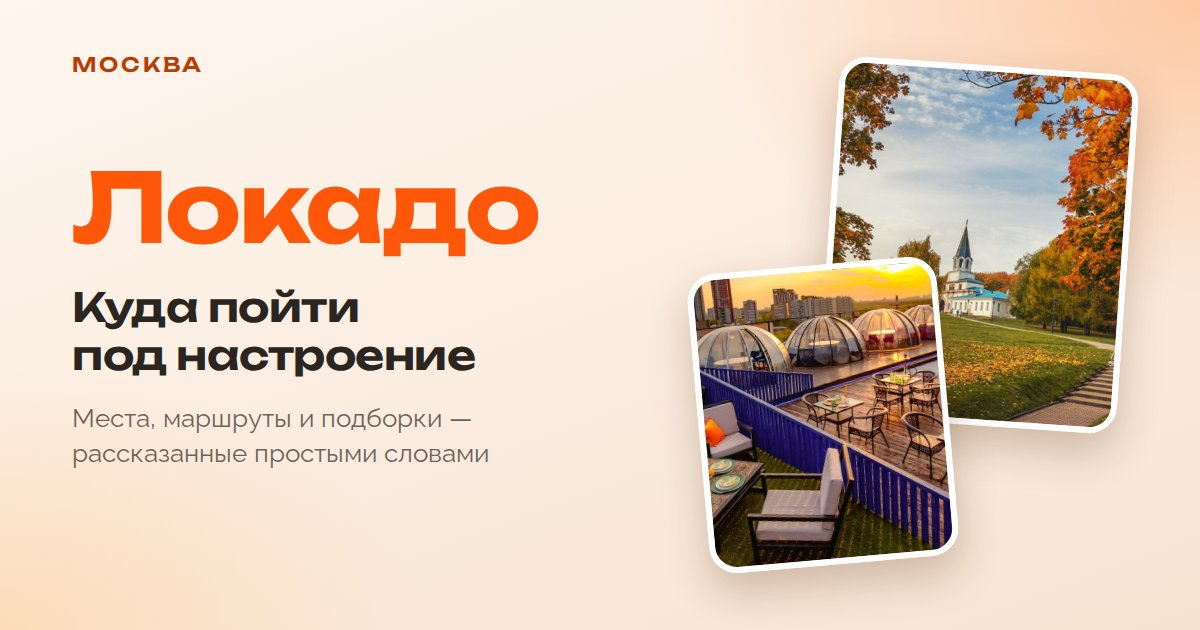
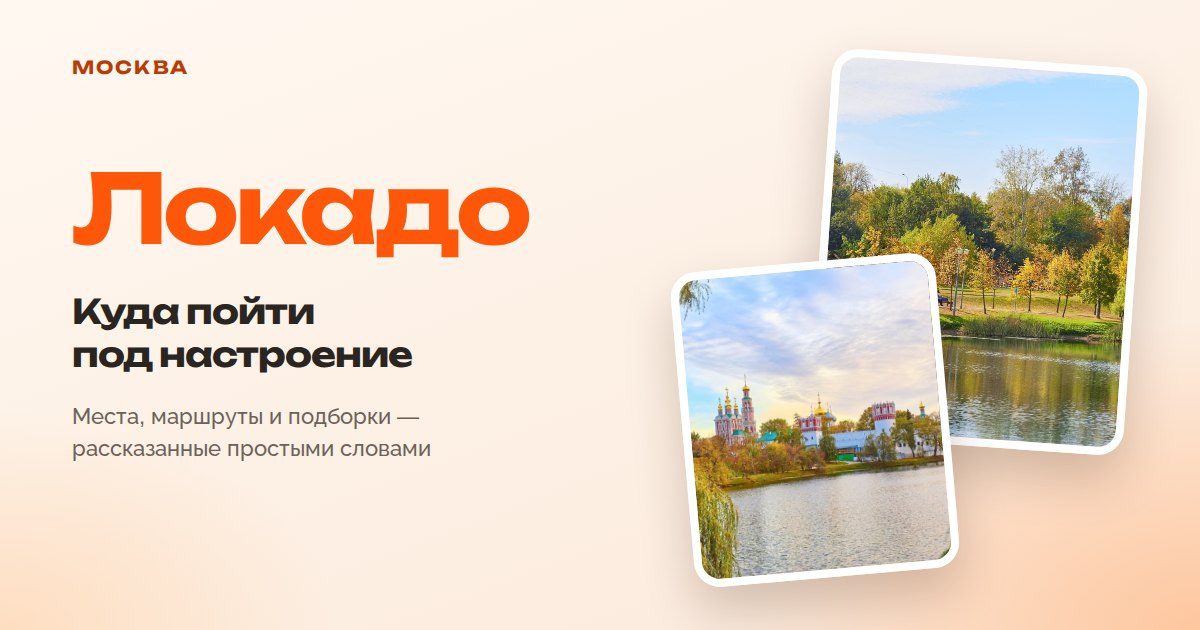
Картинка превью ссылок из наших фото
- assets/og-image.jpg пересобрана: Воронцовский парк и Новодевичий
  пруд вместо старых фото настроений, которые нельзя использовать
- tools/og-image.html + og-image.mjs — шаблон и сборка картинки, чтобы
  менять её без графического редактора
- В адресе картинки ?v=2: Telegram и другие мессенджеры кэшируют превью
  по адресу и иначе показывали бы старую

Claude-Session: https://claude.ai/code/session_01C5CphNpDVRWo972NeZpS75

diff --git a/tools/og-image.html b/tools/og-image.html
@@ -1,0 +1,42 @@
+<!doctype html>
+<!-- tools/og-image.html — шаблон картинки для превью ссылок (assets/og-image.jpg).
+     Фото — только наши, с лицензией (assets/images/places). Пересобрать:
+     node tools/og-image.mjs -->
+<html lang="ru"><head><meta charset="utf-8">
+<style>
+  @font-face { font-family: Unbounded; src: url(../assets/fonts/unbounded-cyrillic-700-normal.woff2) format('woff2'); font-weight: 700; }
+  @font-face { font-family: Raleway; src: url(../assets/fonts/raleway-cyrillic-500-normal.woff2) format('woff2'); font-weight: 500; }
+  html, body { margin: 0; }
+  .og {
+    position: relative; width: 1200px; height: 630px; overflow: hidden;
+    background:
+      radial-gradient(ellipse 55% 70% at 100% 100%, rgba(255, 170, 110, 0.55), transparent 70%),
+      radial-gradient(ellipse 40% 50% at 0% 100%, rgba(255, 200, 150, 0.45), transparent 70%),
+      linear-gradient(160deg, #FFF8F1 0%, #FBE9DA 100%);
+    font-family: Raleway, sans-serif; color: #2A2521;
+  }
+  .text { position: absolute; left: 72px; top: 58px; width: 560px; }
+  .kicker { font: 700 18px/1 Unbounded; letter-spacing: .12em; color: #B93C05; }
+  .logo { margin-top: 84px; font: 700 96px/1 Unbounded; letter-spacing: -.04em; color: #FF570A; }
+  .title { margin-top: 34px; font: 700 34px/1.25 Unbounded; letter-spacing: -.03em; }
+  .lead { margin-top: 26px; font-size: 22px; line-height: 1.45; color: #6B6259; }
+  .photo {
+    position: absolute; border: 8px solid #fff; border-radius: 26px; overflow: hidden;
+    box-shadow: 0 24px 50px rgba(60, 25, 5, 0.22);
+  }
+  .photo img { display: block; width: 100%; height: 100%; object-fit: cover; }
+  .photo--back { width: 300px; height: 372px; right: 64px; top: 58px; transform: rotate(4deg); }
+  .photo--front { width: 250px; height: 300px; right: 252px; top: 262px; transform: rotate(-5deg); }
+</style></head>
+<body>
+  <div class="og">
+    <div class="text">
+      <div class="kicker">МОСКВА</div>
+      <div class="logo">Локадо</div>
+      <div class="title">Куда пойти<br>под настроение</div>
+      <div class="lead">Места, маршруты и подборки —<br>рассказанные простыми словами</div>
+    </div>
+    <div class="photo photo--back"><img src="../assets/images/places/vorontsovsky-park.jpg" alt=""></div>
+    <div class="photo photo--front"><img src="../assets/images/places/novodevichy-prud.jpg" alt=""></div>
+  </div>
+</body></html>

diff --git a/index.html b/index.html
@@ -17,12 +17,12 @@
   <meta property="og:locale" content="ru_RU">
   <!-- Картинка для превью ссылки в мессенджерах и соцсетях. Адрес — полный:
        по относительному пути Telegram и VK картинку не находят -->
-  <meta property="og:image" content="https://locado.ru/assets/og-image.jpg">
+  <meta property="og:image" content="https://locado.ru/assets/og-image.jpg?v=2">
   <meta property="og:image:width" content="1200">
   <meta property="og:image:height" content="630">
   <meta property="og:image:alt" content="Локадо — куда пойти в Москве под настроение">
   <meta name="twitter:card" content="summary_large_image">
-  <meta name="twitter:image" content="https://locado.ru/assets/og-image.jpg">
+  <meta name="twitter:image" content="https://locado.ru/assets/og-image.jpg?v=2">
   <link rel="icon" href="assets/favicon.svg" type="image/svg+xml">
   <!-- Установка на экран телефона как приложение (PWA). Пути относительные —
        при переезде на свой домен ничего менять не нужно -->

diff --git a/suggest/index.html b/suggest/index.html
@@ -18,12 +18,12 @@
   <meta property="og:description" content="Расскажи о нём как другу — лучшие истории станут местами на Локадо.">
   <meta property="og:site_name" content="Локадо">
   <meta property="og:locale" content="ru_RU">
-  <meta property="og:image" content="https://locado.ru/assets/og-image.jpg">
+  <meta property="og:image" content="https://locado.ru/assets/og-image.jpg?v=2">
   <meta property="og:image:width" content="1200">
   <meta property="og:image:height" content="630">
   <meta property="og:image:alt" content="Локадо — куда пойти в Москве под настроение">
   <meta name="twitter:card" content="summary_large_image">
-  <meta name="twitter:image" content="https://locado.ru/assets/og-image.jpg">
+  <meta name="twitter:image" content="https://locado.ru/assets/og-image.jpg?v=2">
   <link rel="icon" href="assets/favicon.svg" type="image/svg+xml">
   <!-- Установка на экран телефона как приложение (PWA). Пути относительные —
        при переезде на свой домен ничего менять не нужно -->

diff --git a/collection/index.html b/collection/index.html
@@ -20,12 +20,12 @@
   <meta property="og:locale" content="ru_RU">
   <!-- Картинка для превью ссылки в мессенджерах и соцсетях. Адрес — полный:
        по относительному пути Telegram и VK картинку не находят -->
-  <meta property="og:image" content="https://locado.ru/assets/og-image.jpg">
+  <meta property="og:image" content="https://locado.ru/assets/og-image.jpg?v=2">
   <meta property="og:image:width" content="1200">
   <meta property="og:image:height" content="630">
   <meta property="og:image:alt" content="Локадо — куда пойти в Москве под настроение">
   <meta name="twitter:card" content="summary_large_image">
-  <meta name="twitter:image" content="https://locado.ru/assets/og-image.jpg">
+  <meta name="twitter:image" content="https://locado.ru/assets/og-image.jpg?v=2">
 
   <link rel="icon" href="assets/favicon.svg" type="image/svg+xml">
   <!-- Установка на экран телефона как приложение (PWA). Пути относительные —

diff --git a/collections/index.html b/collections/index.html
@@ -20,12 +20,12 @@
   <meta property="og:locale" content="ru_RU">
   <!-- Картинка для превью ссылки в мессенджерах и соцсетях. Адрес — полный:
        по относительному пути Telegram и VK картинку не находят -->
-  <meta property="og:image" content="https://locado.ru/assets/og-image.jpg">
+  <meta property="og:image" content="https://locado.ru/assets/og-image.jpg?v=2">
   <meta property="og:image:width" content="1200">
   <meta property="og:image:height" content="630">
   <meta property="og:image:alt" content="Локадо — куда пойти в Москве под настроение">
   <meta name="twitter:card" content="summary_large_image">
-  <meta name="twitter:image" content="https://locado.ru/assets/og-image.jpg">
+  <meta name="twitter:image" content="https://locado.ru/assets/og-image.jpg?v=2">
 
   <link rel="icon" href="assets/favicon.svg" type="image/svg+xml">
   <!-- Установка на экран телефона как приложение (PWA). Пути относительные —

diff --git a/place/index.html b/place/index.html
@@ -20,12 +20,12 @@
   <meta property="og:locale" content="ru_RU">
   <!-- Картинка для превью ссылки в мессенджерах и соцсетях. Адрес — полный:
        по относительному пути Telegram и VK картинку не находят -->
-  <meta property="og:image" content="https://locado.ru/assets/og-image.jpg">
+  <meta property="og:image" content="https://locado.ru/assets/og-image.jpg?v=2">
   <meta property="og:image:width" content="1200">
   <meta property="og:image:height" content="630">
   <meta property="og:image:alt" content="Локадо — куда пойти в Москве под настроение">
   <meta name="twitter:card" content="summary_large_image">
-  <meta name="twitter:image" content="https://locado.ru/assets/og-image.jpg">
+  <meta name="twitter:image" content="https://locado.ru/assets/og-image.jpg?v=2">
 
   <link rel="icon" href="assets/favicon.svg" type="image/svg+xml">
   <!-- Установка на экран телефона как приложение (PWA). Пути относительные —
